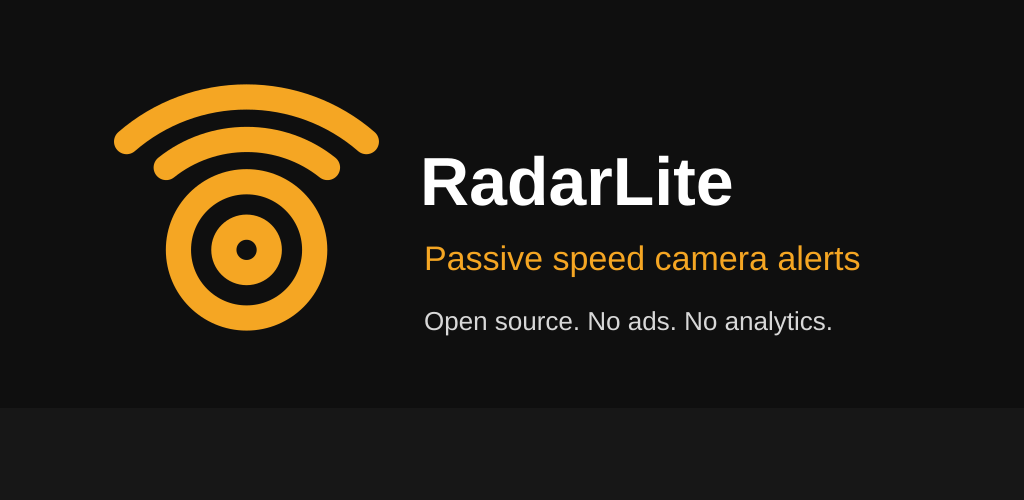
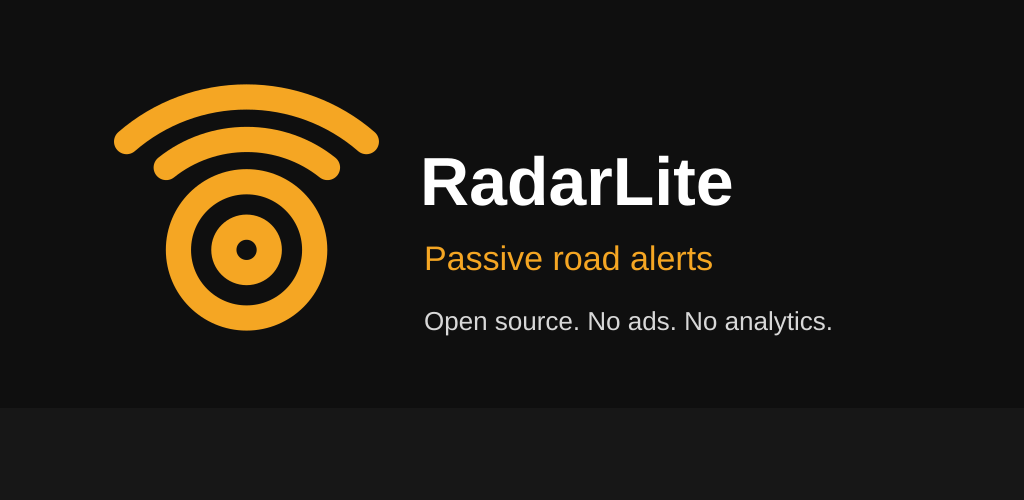
fix: simplify road alert handling

Changed region(s): [[0.5312, 0.48, 0.8438, 0.54]]

diff --git a/docs/index.html b/docs/index.html
@@ -30,8 +30,8 @@
     <section class="hero">
       <img src="assets/icon.png" alt="RadarLite icon">
       <h1>RadarLite</h1>
-      <p class="lead">A simple Android speed camera warning app with no ads, no subscriptions, no tracking, and no mobile data use while you drive.</p>
-      <p class="muted">RadarLite warns you when a known camera is ahead. The camera list comes from an open database maintained by thousands of collaborators, and once it is downloaded, alerts work offline.</p>
+      <p class="lead">A simple Android road-alert app with no ads, no subscriptions, no tracking, and no mobile data use while you drive.</p>
+      <p class="muted">RadarLite warns you about known cameras and explicitly mapped road hazards ahead. Its alert list comes from OpenStreetMap, and once it is downloaded, alerts work offline.</p>
       <div class="actions">
         <a class="button primary" href="https://github.com/luckyshot/radarlite">Get the app</a>
         <a class="button" href="privacy.html">Privacy policy</a>
@@ -42,9 +42,9 @@
       <div class="section">
         <h2>Features</h2>
         <ul>
-          <li>Speed camera, red light camera, and average speed zone alerts.</li>
+          <li>Camera, sharp-curve, junction, crossing, and traffic-calming alerts.</li>
           <li>Two warning levels: an early warning and a closer urgent alert.</li>
-          <li>Works offline after the camera database is installed.</li>
+          <li>Works offline after the alert database is installed.</li>
           <li>Manual database updates when you choose to check.</li>
           <li>No ads, subscriptions, analytics, or tracking SDKs.</li>
         </ul>
@@ -53,7 +53,7 @@
       <div class="section">
         <h2>How It Works</h2>
         <p>RadarLite listens for location updates already produced by your phone or navigation app. It does not start its own constant GPS polling.</p>
-        <p>When your route points toward a known camera, the app plays a warning sound and then an urgent sound as you get closer.</p>
+        <p>When your travel direction points toward a known alert, the app plays a warning sound and then an urgent sound as you get closer.</p>
       </div>
 
       <div class="section">
@@ -61,7 +61,7 @@
         <ol>
           <li>Install RadarLite on your Android phone.</li>
           <li>Open the app and grant the requested permissions.</li>
-          <li>Tap <strong>Check for update</strong> to download the camera database.</li>
+          <li>Tap <strong>Check for update</strong> to download the alert database.</li>
           <li>Turn monitoring on before driving.</li>
           <li>Use your usual navigation app if you want continuous location updates.</li>
         </ol>
@@ -70,12 +70,12 @@
       <div class="section">
         <h2>Privacy</h2>
         <p>RadarLite processes location on your device. It does not include ads, analytics, crash reporting, user accounts, or behavior tracking.</p>
-        <p>Internet access is used only when you manually check for a camera database update.</p>
+        <p>Internet access is used only when you manually check for an alert database update.</p>
       </div>
 
       <div class="section">
         <h2>Important</h2>
-        <p>Speed camera warning apps are restricted or illegal in some places. Check your local rules before using RadarLite on public roads.</p>
+        <p>Road-alert apps are restricted or illegal in some places. Check your local rules before using RadarLite on public roads.</p>
       </div>
 
       <div class="section">

diff --git a/app/src/main/kotlin/com/radarlite/service/CameraDetectionService.kt b/app/src/main/kotlin/com/radarlite/service/CameraDetectionService.kt
@@ -60,17 +60,14 @@ class CameraDetectionService : Service() {
     private var monitoring = false
     private var lastSpeedInterval = 0
     private var lastAnnouncedSpeed: Int? = null
+    private var lastProcessedFixMs = 0L
 
     override fun onCreate() {
         super.onCreate()
         cameraDb     = CameraDbHelper(this).apply { open() }
         appDb        = AppDatabase.get(this)
         soundManager = SoundManager(this)
-        alertEngine  = AlertEngine(
-            soundManager,
-            { AlertSettings.enabled(this, it) },
-            { AlertSettings.overspeedEnabled(this) }
-        ) { cam, speedKmh -> logAlert(cam, speedKmh) }
+        alertEngine = AlertEngine(soundManager) { cam, speedKmh -> logAlert(cam, speedKmh) }
         locationStrategy = LocationStrategy(this) { state -> onLocationUpdate(state) }
 
         ServiceState.dbVersion.value     = cameraDb.getVersion() ?: "No database"
@@ -128,6 +125,7 @@ class CameraDetectionService : Service() {
         listenerRefreshJob?.cancel()
         alertEngine.reset()
         lastAnnouncedSpeed = null
+        lastProcessedFixMs = 0L
         ServiceState.isRunning.value  = false
         ServiceState.isReceivingLocation.value = false
         ServiceState.lastLat.value = null
@@ -150,12 +148,16 @@ class CameraDetectionService : Service() {
             // Passive callbacks can arrive together; preserve alert order and mutable engine state.
             locationMutex.withLock {
                 if (!monitoring) return@withLock
-                val cameras = cameraDb.getCamerasNear(state.lat, state.lon, 600f)
+                // Cached and callback fixes may arrive out of order; process each fix only once.
+                if (state.timeMs <= lastProcessedFixMs) return@withLock
+                lastProcessedFixMs = state.timeMs
+                val alerts = cameraDb.getCamerasNear(state.lat, state.lon, 600f)
+                    .filter { AlertSettings.enabled(this@CameraDetectionService, it.type) }
                 if (!monitoring) return@withLock
 
                 announceSpeed(state.speedKmh)
                 // Alert speech follows optional speed speech, so a safety warning has priority.
-                alertEngine.process(state, cameras)
+                alertEngine.process(state, alerts, AlertSettings.overspeedEnabled(this@CameraDetectionService))
 
                 // Keep the activity's status card in sync with each passive location fix.
                 ServiceState.lastLat.value = state.lat
@@ -164,8 +166,8 @@ class CameraDetectionService : Service() {
                 ServiceState.accuracyM.value = state.accuracyM
                 ServiceState.lastFixMs.value = state.timeMs
                 ServiceState.speedKmh.value = state.speedKmh
-                ServiceState.camerasNearby.value = cameras.size
-                ServiceState.closestCameraDistanceM.value = cameras.minOfOrNull {
+                ServiceState.camerasNearby.value = alerts.size
+                ServiceState.closestCameraDistanceM.value = alerts.minOfOrNull {
                     GeoUtils.haversine(state.lat, state.lon, it.lat, it.lon)
                 }
                 ServiceState.gpsMode.value = getString(R.string.gps_passive)

diff --git a/app/src/main/kotlin/com/radarlite/alert/AlertEngine.kt b/app/src/main/kotlin/com/radarlite/alert/AlertEngine.kt
@@ -6,8 +6,6 @@ import com.radarlite.util.GeoUtils
 
 class AlertEngine(
     private val soundManager: SoundManager,
-    private val isTypeEnabled: (String) -> Boolean,
-    private val isOverspeedEnabled: () -> Boolean,
     private val onAlert: (Camera, Float) -> Unit
 ) {
     companion object {
@@ -23,18 +21,17 @@ class AlertEngine(
     private var lastBearingDeg: Float? = null
     private var turningFixes = 0
 
-    fun process(state: LocationState, cameras: List<Camera>) {
+    fun process(state: LocationState, alerts: List<Camera>, overspeedEnabled: Boolean) {
         updateTurnState(state)
         // Ignore walking and other very slow movement; GPS heading and distance trends are too noisy here.
         val heading = state.bearingDeg ?: return
         if (state.speedKmh < MIN_ALERT_SPEED_KMH) return
 
-        val enabledAlerts = cameras.filter { isTypeEnabled(it.type) }
-        val activeIds = enabledAlerts.mapTo(mutableSetOf()) { it.id }
+        val activeIds = alerts.mapTo(mutableSetOf()) { it.id }
         alerted.keys.retainAll(activeIds)
         distHistory.keys.retainAll(activeIds)
 
-        for (cam in enabledAlerts) {
+        for (cam in alerts) {
             val dist = GeoUtils.haversine(state.lat, state.lon, cam.lat, cam.lon)
 
             val history = distHistory.getOrPut(cam.id) { ArrayDeque(4) }
@@ -61,7 +58,7 @@ class AlertEngine(
                     speedLimit = if (target == AlertStage.WARNING) cam.speedLimit else null,
                     cameraType = if (target == AlertStage.WARNING) cam.type else null,
                     overspeed = target == AlertStage.WARNING && cam.type in CAMERA_TYPES &&
-                        isOverspeedEnabled() &&
+                        overspeedEnabled &&
                         cam.speedLimit?.let { state.speedKmh > it + OVERSPEED_TOLERANCE_KMH } == true
                 )
                 // A closer urgent tone is the same encounter, not a second log entry.

diff --git a/docs/privacy.html b/docs/privacy.html
@@ -15,7 +15,7 @@
 <body>
   <main>
     <h1>RadarLite Privacy Policy</h1>
-    <p>Last updated: 16 June 2026</p>
+    <p>Last updated: 15 August 2026</p>
 
     <section>
       <h2>Summary</h2>
@@ -25,13 +25,13 @@
 
     <section>
       <h2>Data Processed On Device</h2>
-      <p>RadarLite processes passive location, speed, and bearing updates on your device to detect nearby speed-camera records. Recent alert history is stored locally in the app database.</p>
+      <p>RadarLite processes passive location, speed, and bearing updates on your device to detect nearby alert records. Recent alert history is stored locally in the app database.</p>
       <p>Your location and alert history are not transmitted to the project maintainers.</p>
     </section>
 
     <section>
       <h2>Network Requests</h2>
-      <p>RadarLite uses the network only when checking for or downloading the camera database from GitHub Releases. Normal monitoring works offline and does not use mobile data. Database update requests are made to GitHub-hosted release URLs.</p>
+      <p>RadarLite uses the network only when checking for or downloading the alert database from GitHub Releases. Normal monitoring works offline and does not use mobile data. Database update requests are made to GitHub-hosted release URLs.</p>
     </section>
 
     <section>
@@ -42,7 +42,7 @@
 
     <section>
       <h2>OpenStreetMap Attribution</h2>
-      <p>Camera data is derived from OpenStreetMap. OpenStreetMap data is available under the Open Data Commons Open Database License. See <a href="https://www.openstreetmap.org/copyright">OpenStreetMap copyright and license information</a>.</p>
+      <p>Alert data is derived from OpenStreetMap. OpenStreetMap data is available under the Open Data Commons Open Database License. See <a href="https://www.openstreetmap.org/copyright">OpenStreetMap copyright and license information</a>.</p>
     </section>
 
     <section>

diff --git a/app/src/main/kotlin/com/radarlite/ui/AlertLogAdapter.kt b/app/src/main/kotlin/com/radarlite/ui/AlertLogAdapter.kt
@@ -28,7 +28,10 @@ class AlertLogAdapter(
         val entry = items[position]
         holder.time.text  = formatTime(entry.timestamp)
         holder.info.text  = formatType(entry)
-        holder.speed.text = entry.speedLimit?.let { "Limit $it" } ?: ""
+        holder.speed.text = listOfNotNull(
+            entry.speedLimit?.let { "Limit $it" },
+            entry.speedKmh?.let { "Speed ${it.toInt()}" }
+        ).joinToString(" · ")
         holder.itemView.isEnabled = entry.cameraLat != null && entry.cameraLon != null
         holder.itemView.setOnClickListener { if (holder.itemView.isEnabled) onClick(entry) }
     }

diff --git a/pipeline/fetch_osm.js b/pipeline/fetch_osm.js
@@ -44,10 +44,10 @@ async function fetchOverpass(query) {
 
 function parseSpeed(raw) {
   if (!raw) return null;
-  raw = raw.trim();
-  if (raw.endsWith(' mph')) return Math.round(parseInt(raw) * 1.60934);
-  const n = parseInt(raw);
-  return isNaN(n) ? null : n;
+  const match = raw.trim().match(/^(\d+)\s*(km\/h|kph|mph)?$/i);
+  if (!match) return null; // Ignore conditional, variable, and multi-value limits.
+  const speed = Number(match[1]);
+  return match[2]?.toLowerCase() === 'mph' ? Math.round(speed * 1.60934) : speed;
 }
 
 function classifyType(tags) {

diff --git a/store-assets/google-play-listing.md b/store-assets/google-play-listing.md
@@ -16,37 +16,37 @@
 
 ## Short Description
 
-Free offline speed camera alerts. No ads, subscriptions, tracking
+Free offline road alerts. No ads, subscriptions, tracking
 
 ## Full Description
 
-RadarLite is a lightweight, free and open source speed camera warning app for Android.
+RadarLite is a lightweight, free and open source road-alert app for Android.
 
 All features are free. There are no ads, no subscriptions, no in-app purchases, and no user tracking.
 
-It passively listens for location updates already produced by other apps, such as navigation apps, and warns when an OpenStreetMap speed-camera record appears ahead.
+It passively listens for location updates already produced by other apps, such as navigation apps, and warns when an OpenStreetMap camera or explicitly mapped road hazard appears ahead.
 
-Once the camera database is installed, RadarLite works offline while you drive. No internet connection or mobile data is needed for normal monitoring.
+Once the alert database is installed, RadarLite works offline while you drive. No internet connection or mobile data is needed for normal monitoring.
 
-RadarLite does not include analytics, crash reporting, or tracking SDKs. Location processing happens on device. Network access is used only to check for and download the camera database from GitHub Releases.
+RadarLite does not include analytics, crash reporting, or tracking SDKs. Location processing happens on device. Network access is used only to check for and download the alert database from GitHub Releases.
 
 RadarLite is free and open source under the AGPL. Source code is available at:
 https://github.com/luckyshot/radarlite
 
-Camera data is derived from OpenStreetMap and is available under the Open Data Commons Open Database License. See:
+Alert data is derived from OpenStreetMap and is available under the Open Data Commons Open Database License. See:
 https://www.openstreetmap.org/copyright
 
-Important: Speed camera warning apps are illegal or restricted in some countries and regions. Check local laws before using RadarLite on public roads.
+Important: Road-alert apps are illegal or restricted in some countries and regions. Check local laws before using RadarLite on public roads.
 
 ## Background Location Declaration
 
-RadarLite uses background location to provide speed camera alerts while the app is not visible. This is the app's core feature: warning the driver while another navigation app is open, the screen is off, or RadarLite is running as a foreground service.
+RadarLite uses background location to provide road alerts while the app is not visible. This is the app's core feature: warning the driver while another navigation app is open, the screen is off, or RadarLite is running as a foreground service.
 
 Location is processed on device and is not sent to the developer.
 
 ## Prominent In-App Disclosure
 
-RadarLite accesses location in the background to detect nearby speed cameras and show alerts even when the app is closed or not in use. Your location stays on your device and is not shared. Select Location and Allow all the time.
+RadarLite accesses location in the background to detect nearby road alerts and show warnings even when the app is closed or not in use. Your location stays on your device and is not shared. Select Location and Allow all the time.
 
 ## Data Safety Draft
 
@@ -66,7 +66,7 @@ RadarLite accesses location in the background to detect nearby speed cameras and
 - No gambling
 - No ads
 - Not directed at children
-- Contains legal/safety notice because speed camera warning apps are restricted in some regions
+- Contains legal/safety notice because road-alert apps are restricted in some regions
 
 ## Required Images
 

diff --git a/README.md b/README.md
@@ -32,11 +32,11 @@ For a fork, override this without editing Kotlin:
 ./gradlew :app:assembleDebug -Pradarlite.dbVersionUrl=https://github.com/OWNER/REPO/releases/latest/download/version.json
 ```
 
-**Note on sounds:** Audio alerts are generated programmatically via `SoundManager.kt` using `AudioTrack`. No audio files are bundled. Warning alerts play one short 880 Hz tone and one short phrase; urgent alerts play one 500 ms, 1200 Hz tone. Each camera and hazard type can be switched off independently. When enabled, the app says `Over speed limit 50` if it approaches a camera with a known 50 km/h limit while travelling more than 3 km/h over it.
+**Note on sounds:** Audio alerts are generated programmatically via `SoundManager.kt` using `AudioTrack`. No audio files are bundled. Warning alerts play one short 880 Hz tone and one short phrase; urgent alerts play one 500 ms, 1200 Hz tone. Each camera and hazard type can be switched off independently. When enabled, the app says `Over speed limit 50` if it approaches a camera with a known numeric 50 km/h limit while travelling more than 3 km/h over it. Conditional, variable, and multi-value map limits are ignored.
 
 **Note on walking and heading:** Alerts are suppressed below 15 km/h, and wait for a passive fix with a valid travel heading rather than guessing a direction. The app can still show location status and nearby alerts while moving slowly.
 
-**Speed announcements:** The Interval dropdown can speak the current speed as only a number when it enters a new 5, 10, or 20 km/h band; it is disabled by default and never announces below 20 km/h. It uses the same fresh passive location fixes as camera alerts, so it does not add GPS or network use.
+**Speed announcements:** The Interval dropdown can speak the current speed as only a number when it enters a new 5, 10, or 20 km/h band; it is disabled by default and never announces below 20 km/h. It uses the same fresh passive location fixes as road alerts, so it does not add GPS or network use.
 
 **Note on database:** The app gracefully handles a missing bundled database by creating an empty schema. Tap "Check for update" on first run to download the full alert database. Manual checks contact the release metadata each time, then download the database only when a newer version exists. If monitoring is running, it reloads the database after a successful update. On launch, RadarLite prompts for an update when the database has not been checked for 7 days or more; choosing Skip suppresses the prompt for 24 hours.
 
